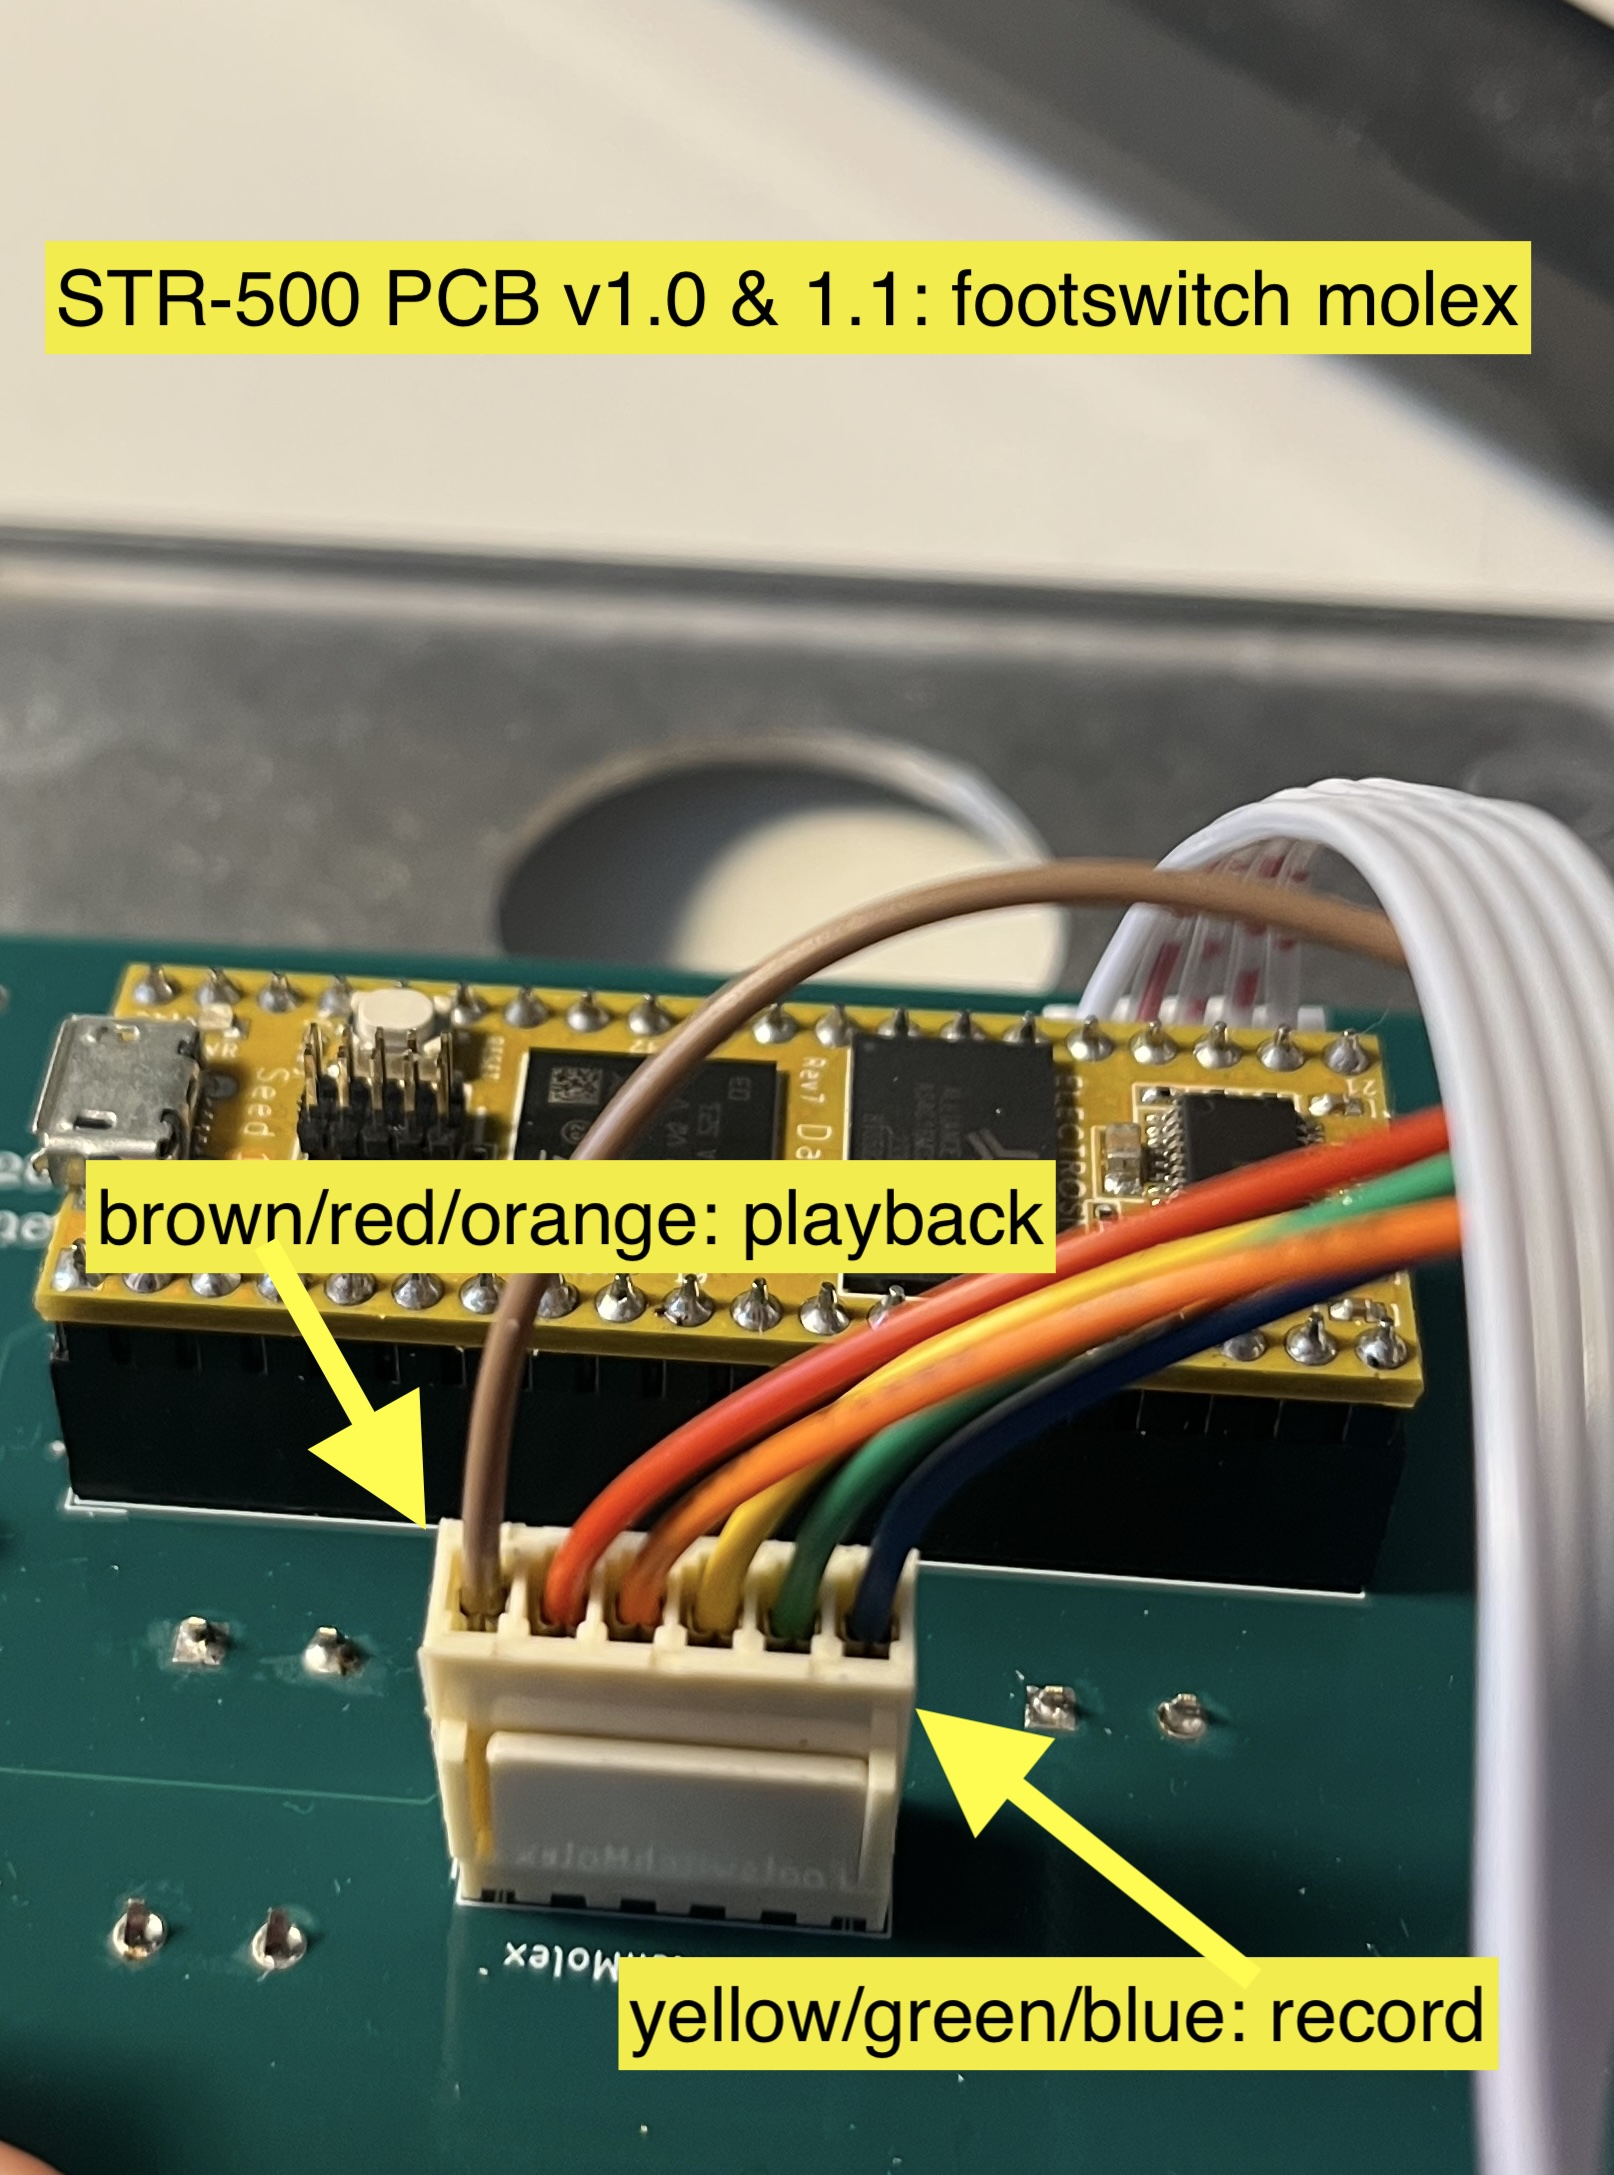
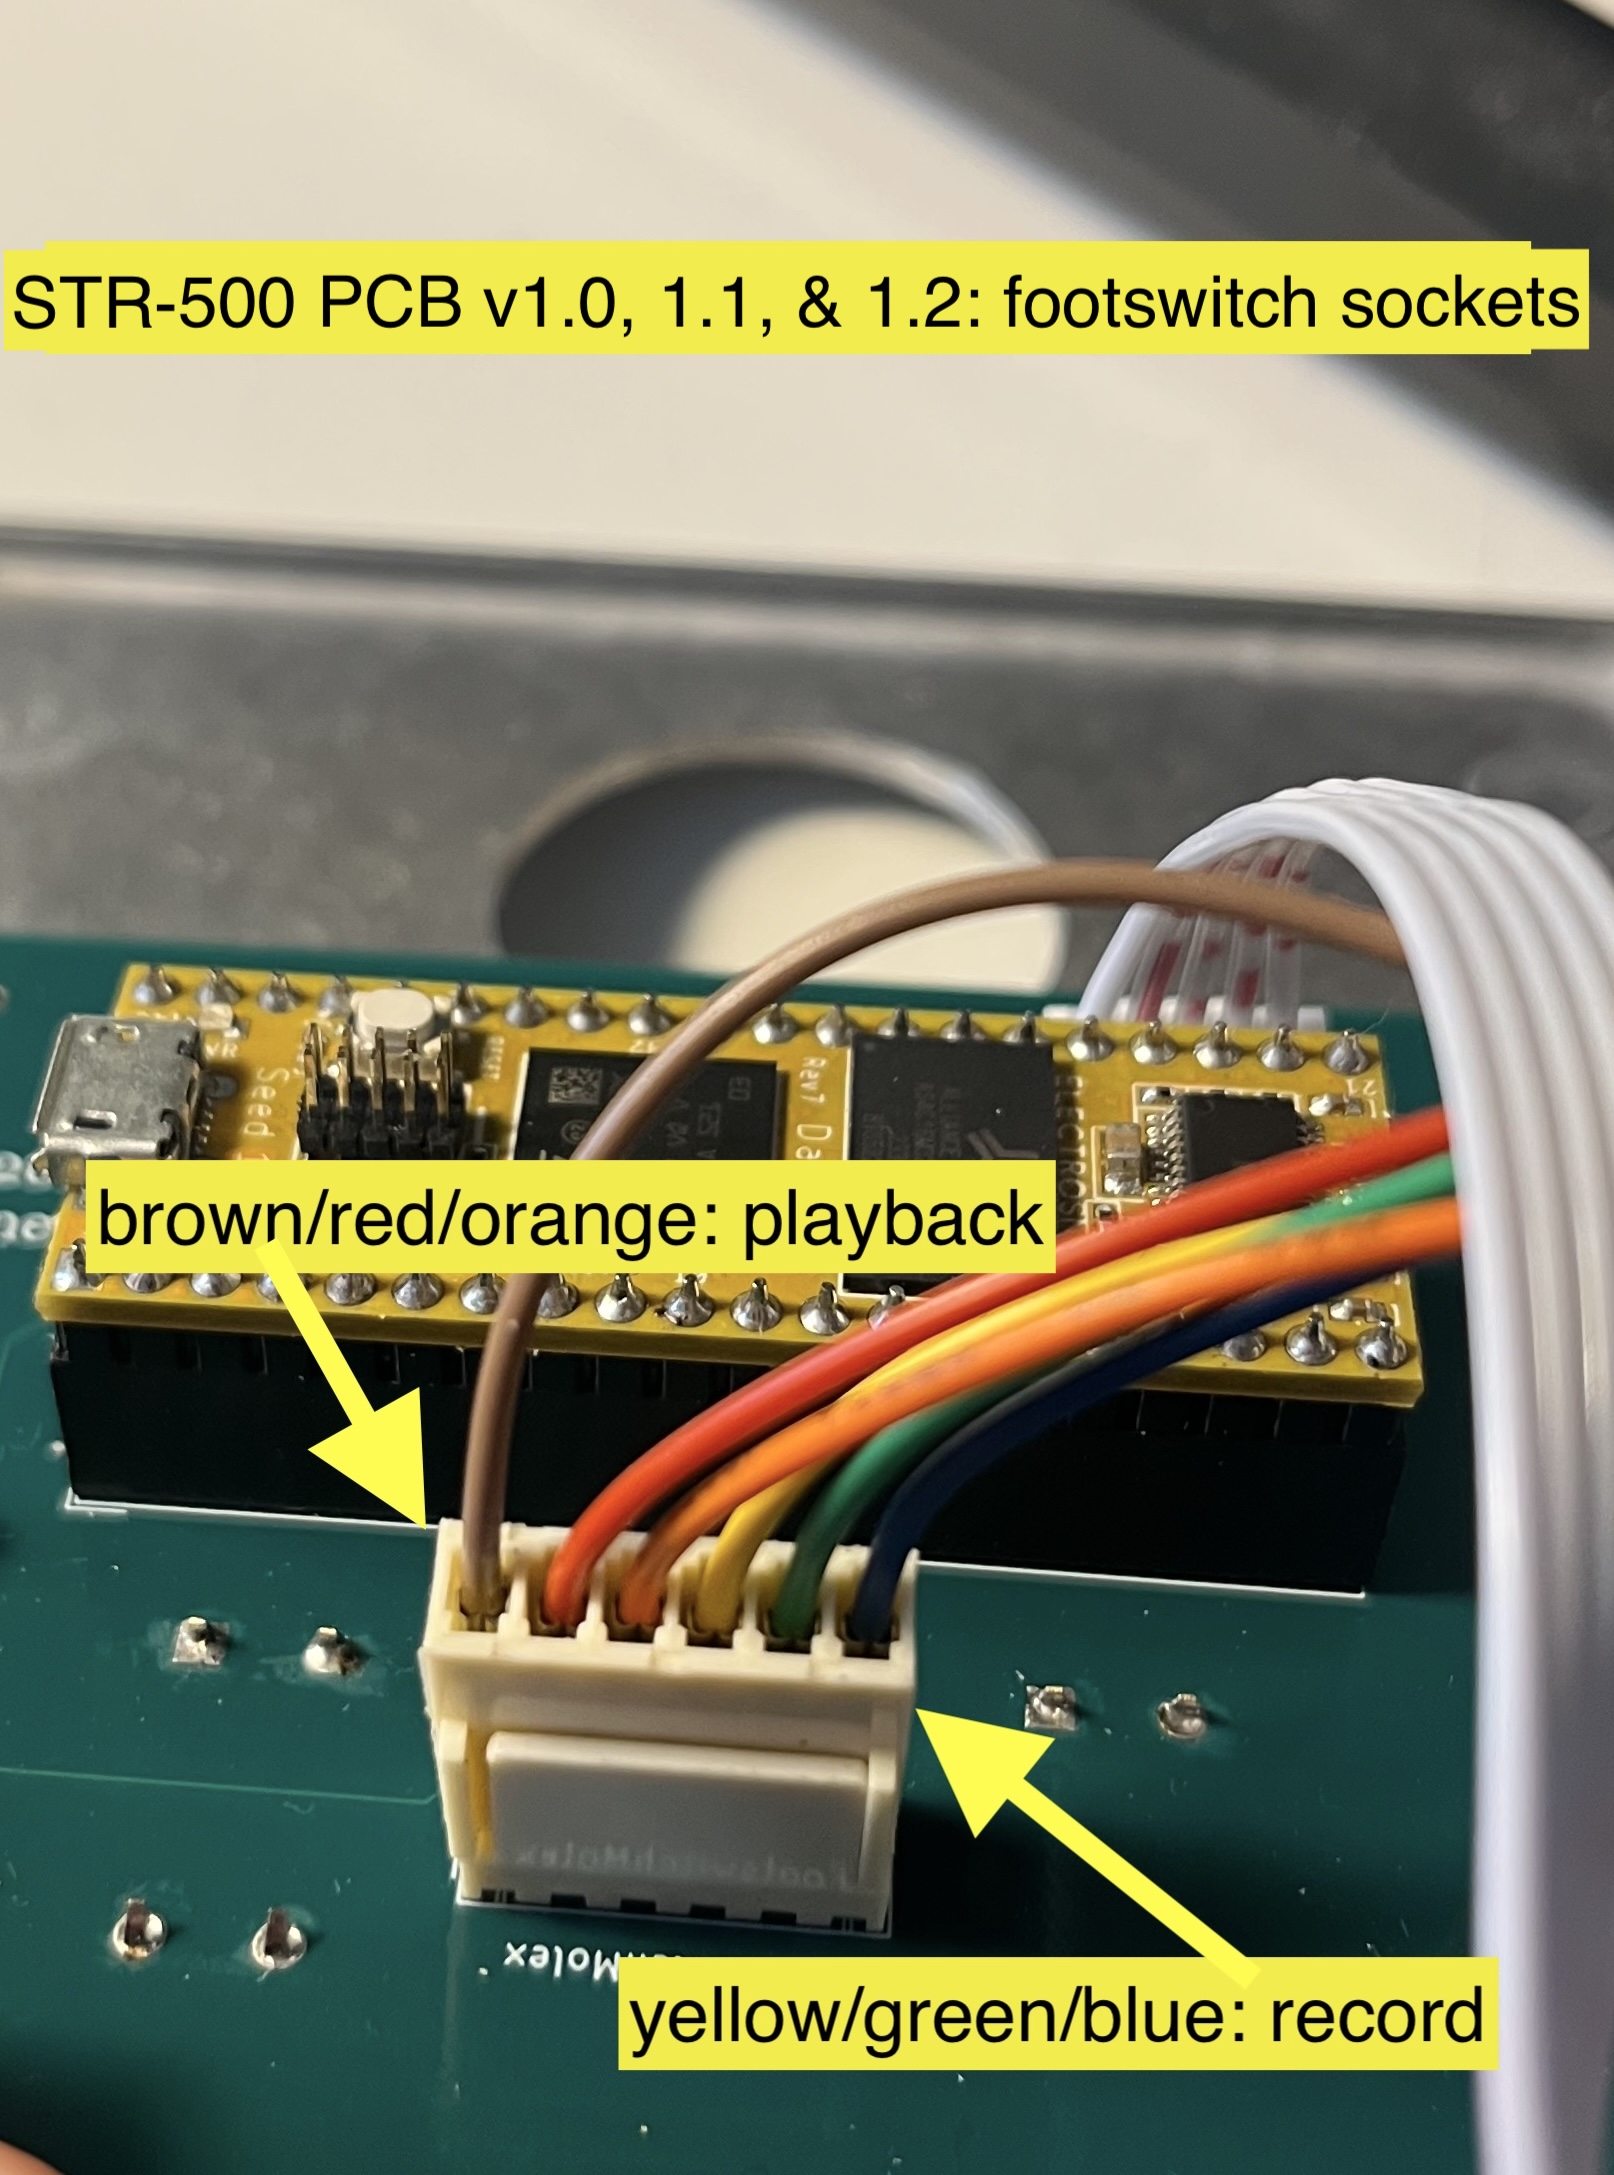
updating build notes

Changed region(s): [[0.0, 0.0924, 0.9913, 0.1848]]

diff --git a/build_notes_etc/PCB_Build_Notes.md b/build_notes_etc/PCB_Build_Notes.md
@@ -1,0 +1,55 @@
+### STR500 Build notes (v1.2)
+
+# Gametrak
+For my builds of the STR-500 I use a second generation Gametrak, which is easiest to disassemble and reassemble into a new container. See this video for info on how to hack: https://youtu.be/JUrJCBs35Bo 
+
+![a picture of a hacked Gametrak string](STR500_gametrak.jpg)
+
+When you disassemble a second generation Gametrak you will get two string cartridges. Each cartridge has wires connected to the string and joystick with a 5 pin JST connector. On the PCB you have two choices:
+1. use an identical JST connector to the one on the Gametrak, and connect the gametrak to the PCB using a socket-to-socket five pin JST cable (you can buy these premade or crimp them yourself)
+2. solder some 2.54" pins to the PCB and connect the gametrak to those somehow, either soldering the wires to the PCB or crimping 2.54" pins onto the Gametrak wires. When you hack out a second generation Gametrak the wires are color-coded, and the order needs to be preserved to work on the PCB. These are:
+- Green: Power
+- Yellow: Joystick X (or Y? it's sometimes difficult to guess)
+- Orange: string pull distance
+- Red: Joystick Y (or X...)
+- Brown: Ground
+
+You can also connect any potentiometers or analog inputs to these pins! You'll just need to figure out how to connect all three to the single power pin and single ground pin. The v2.1 version of the PCB has extra 2.54" pin sockets for anyone who wants to connect normal potentiometers more easily or if you want to hack an earlier model Gametrak. The first version Gametrack did not have unified power and ground pins, and the string is not as usefully self-contained. 
+To-do: make a guide for connecting any analog inputs to these pins.
+
+# Wiring the Molex connectors
+For ease of build I used pre-wired 6-way Molex connectors for the footswitch controls. I also use pre-wired 2-way connectors for Power and Audio input/output. These attach to standard molex pins on the PCB. They use standard 2.54" hole distances, so other methods are possible.
+
+## Audio Inputs and Outputs (these are identical)
+- to do: fill this out and add photos
+
+
+## Footswitch pins
+To-do: add an explanation here for how to bridge the connectors if you're not using footswitch jacks
+
+Footswitch connector, using the precrimped Molex cables I link to on the BOM:
+
+- Brown: Playback GND pin
+- Red: Playback Tip pin
+- Orange: Playback Switch pin
+- Yellow: Record GND pin
+- Green: Record Tip pin
+- Blue: Record Switch pin
+
+Be sure to mount the molex sockets in the correct orientation to ensure that the color coding makes sense.
+
+![how the sockets are wired up](picture_footswitch_sockets.jpg)
+![how the molex plugs into the board](picture_footswitch_molex.jpg)
+
+# Capacitors
+These are kind of optional, they should theoretically lessen the noise on the audio output. Different values may give you different results, and the audio will work perfectly fine without them (albeit with some noise). 
+
+# Buttons
+I use nice MEC buttons for the bigger buttons. The smaller buttons are generic 6x6x13 tactile buttons, you can probably find different ones from the ones on the BOM. 
+
+# Daisy Seed & Pure Data
+See the STR500_code folder for the code and some information on how to load it onto the Seed.
+
+# Check the KiCAD
+This repo also has the KiCAD project included so you can check the circuit and layout if you aren't sure (and if you know how to use KiCAD!). 
+
